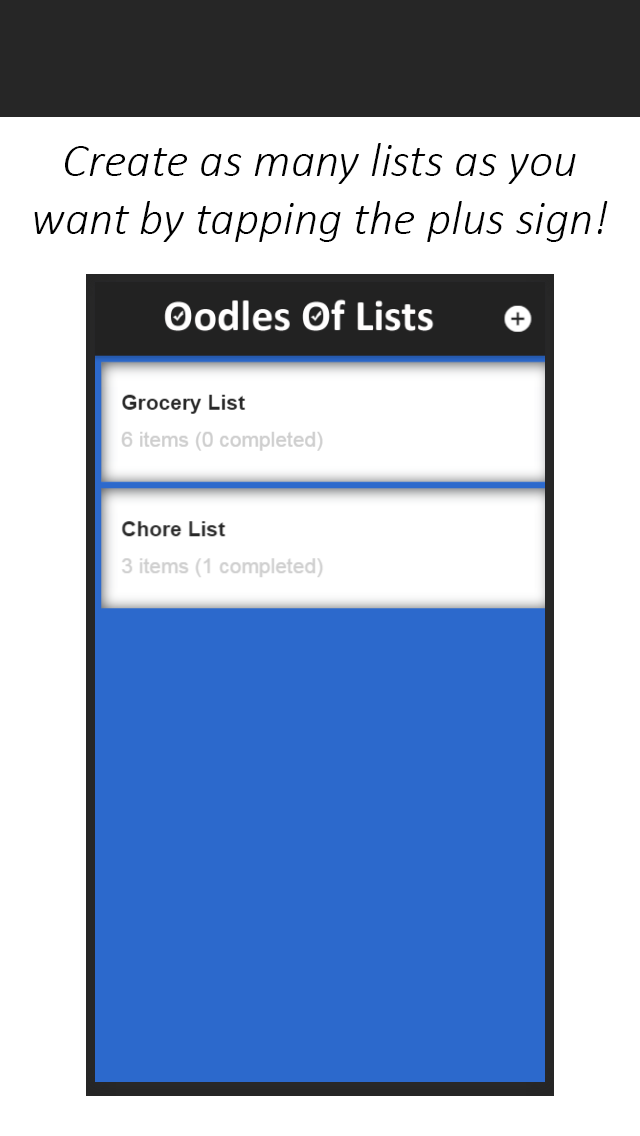
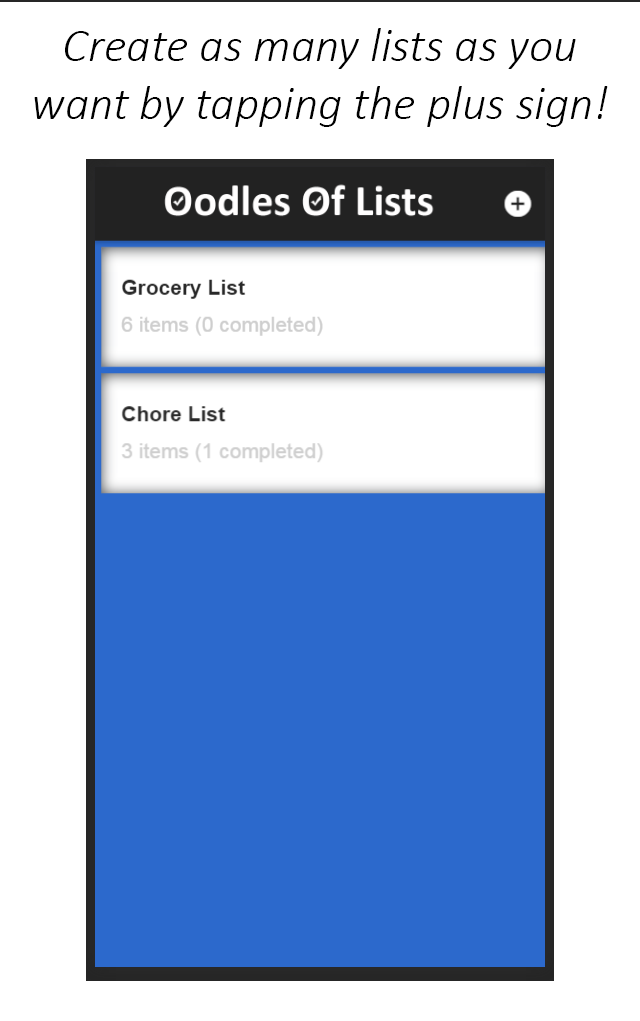
Updated Slide Images

diff --git a/src/pages/intro-page/intro-page.scss b/src/pages/intro-page/intro-page.scss
@@ -5,7 +5,7 @@ intro-page {
   }
 
   ion-slide img {
-    height: 85vh !important;
+    height: 75vh !important;
     width: auto !important;
   } 
 
